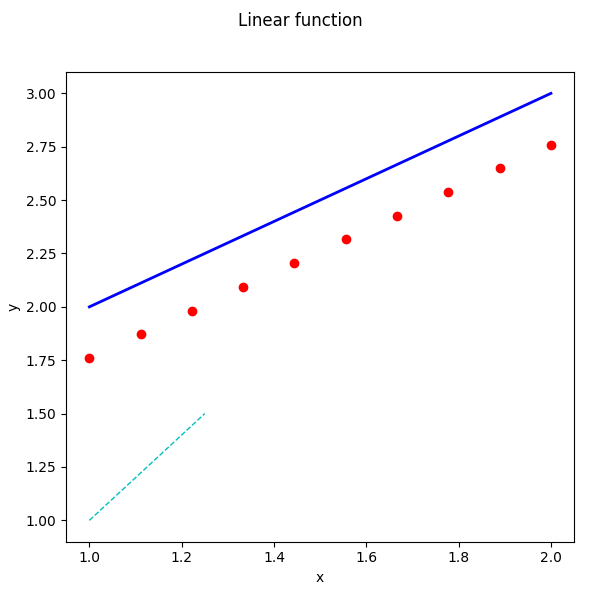
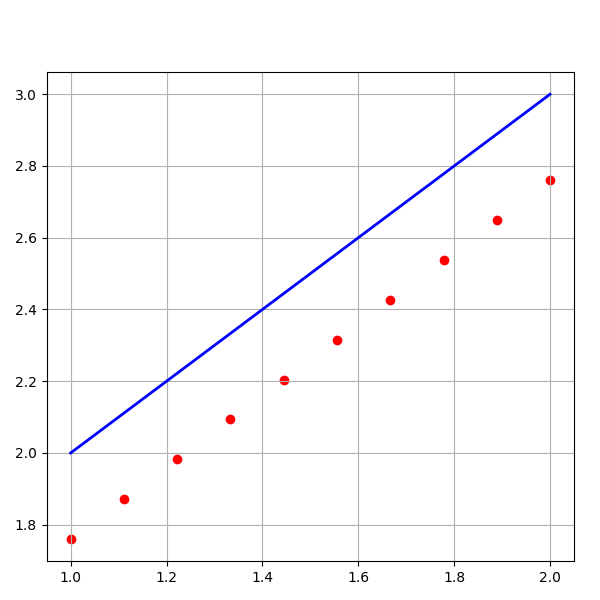
Add n_points functionality and front end

diff --git a/calcs/templates/graph.html b/calcs/templates/graph.html
@@ -80,7 +80,7 @@
         </tr>
         <tr>
             <td> {{ form.xlabel.label }} {{ form.xlabel() }}</td>
-            <td>  </td>
+            <td>  {{ form.legend.label }} {{ form.legend() }}</td>
         </tr>
         <tr>
             <td> {{ form.ylabel.label }} {{ form.ylabel() }}</td>

diff --git a/calcs/views/graphing_setting.py b/calcs/views/graphing_setting.py
@@ -24,11 +24,11 @@ def create_plot(raw_data, filepath):
 
     warnings = list()
     fig, ax = plt.subplots(figsize=tuple(figsize))
-    axes = SettingAxes(fig, ax, raw_data)
-    warnings += axes.warnings
-
     lines = SettingLine(fig, ax, raw_data)
     warnings += lines.warnings
+
+    axes = SettingAxes(fig, ax, raw_data)
+    warnings += axes.warnings
 
     filename = os.getcwd() + filepath + 'plot' + '.png'
     plt.savefig(filename)
@@ -52,6 +52,7 @@ class SettingAxes:
         self.plot_xlabel()
         self.plot_ylabel()
         self.plot_title()
+        self.plot_grid()
         self.fig.tight_layout()
         self.fig.subplots_adjust(top=0.88)
 
@@ -66,6 +67,14 @@ class SettingAxes:
     def plot_title(self):
         if self.raw_data.get('title', None) is not None:
             self.fig.suptitle(self.raw_data['title'])
+
+    def plot_grid(self):
+        if self.raw_data.get('isgrid'):
+            self.ax.grid()
+
+    def plot_legend(self):
+        if self.raw_data.get('legend'):
+            self.ax.legend()
 
 
 class SettingLine:

diff --git a/calcs/views/forms.py b/calcs/views/forms.py
@@ -125,7 +125,8 @@ class GraphingForm(FlaskForm):
     title = StringField('Title')
     xlabel = StringField('x label')
     ylabel = StringField('y label')
-    isgrid = BooleanField(false_values=False)
+    isgrid = BooleanField('Grid?', false_values=False)
+    legend = BooleanField('Legend?')
     submit = SubmitField()
 
     def validate(self):
